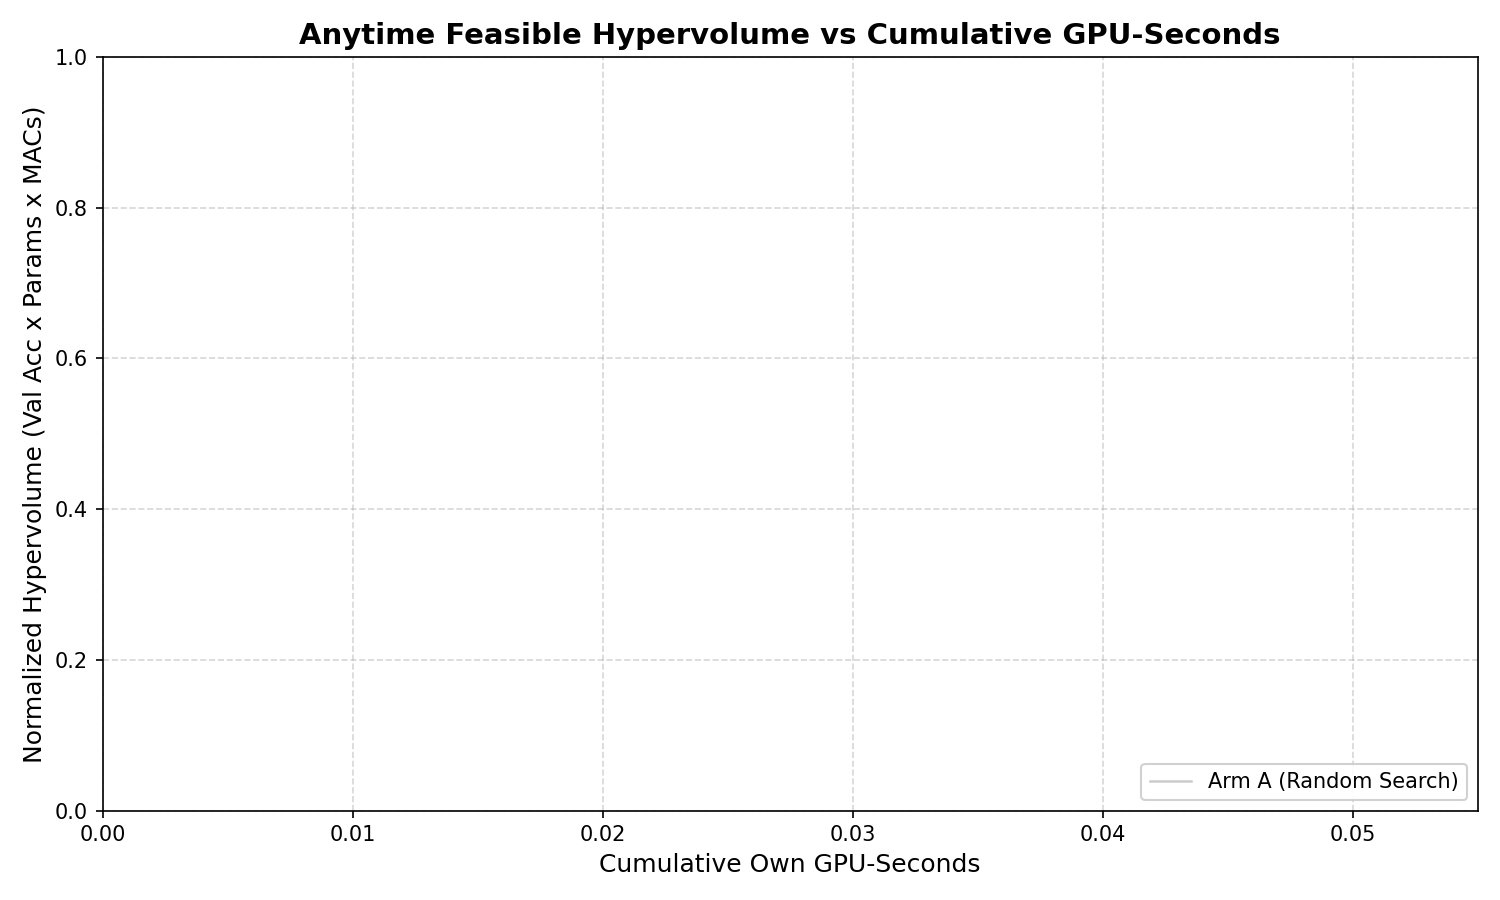
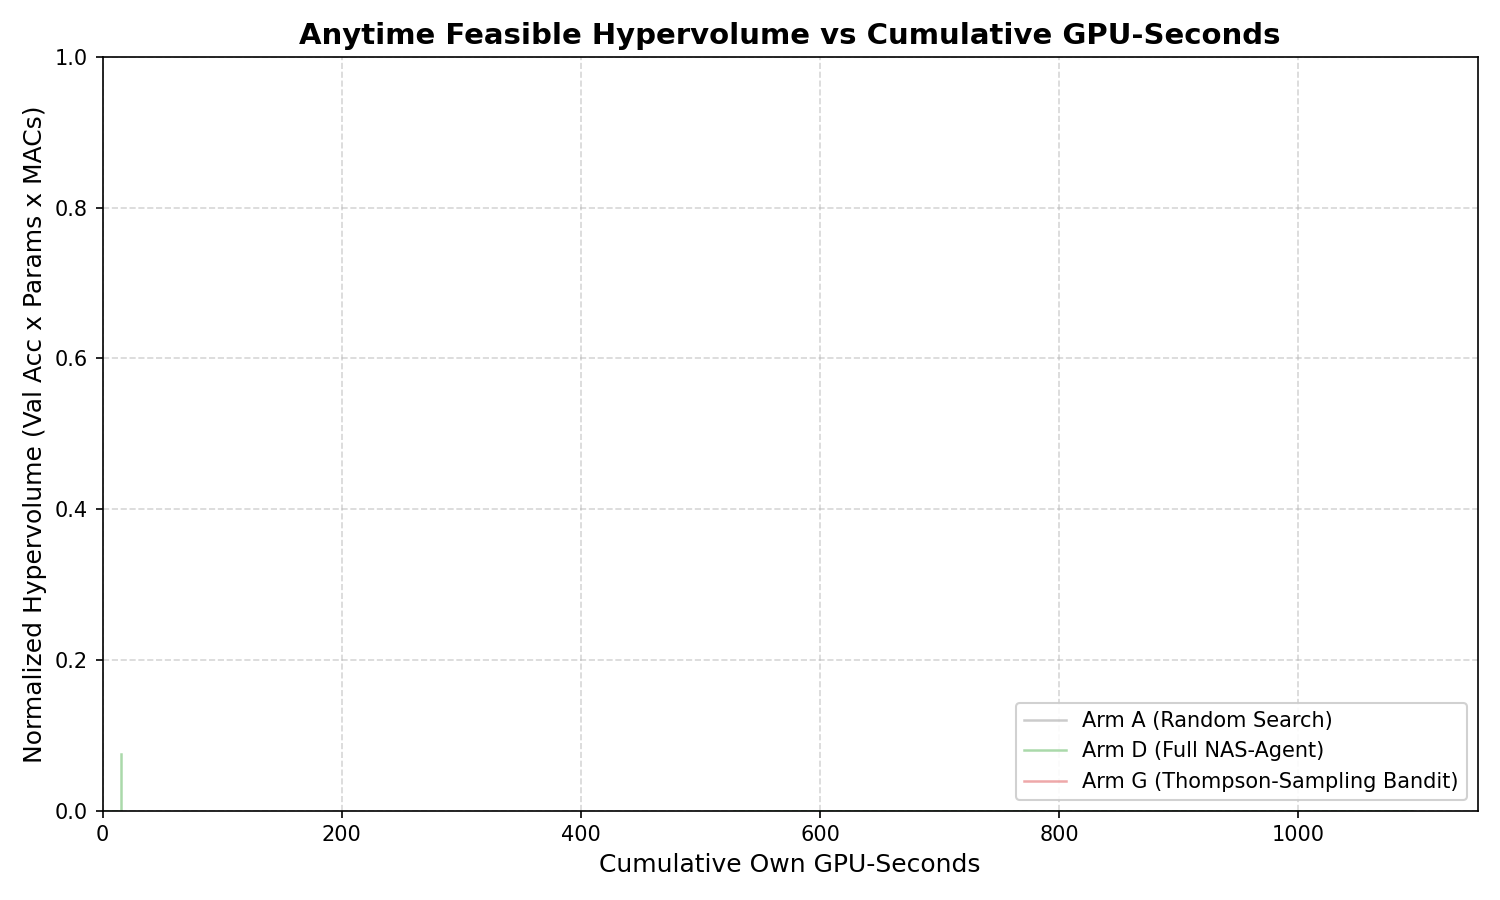
results: add Groq live experiment benchmarks and update runner

diff --git a/src/nas_agent/runner.py b/src/nas_agent/runner.py
@@ -84,7 +84,7 @@ def run_experiment(
     arm_cfg = load_arm_config(arm)
     llm_provider = provider or arm_cfg.get("provider", "mock")
     if llm_provider == "groq":
-        llm_model = model or "llama-3.3-70b-versatile"
+        llm_model = model or "openai/gpt-oss-120b"
     else:
         llm_model = model or arm_cfg.get("model", "google/gemini-2.0-flash-exp:free")
 
@@ -115,7 +115,14 @@ def run_experiment(
 
     executor_extra_args = []
     if mock_data:
-        executor_extra_args.append("--mock-data")
+        executor_extra_args.extend([
+            "--mock-data",
+            "--epochs", "2",
+            "--batch-size", "64",
+            "--subset-size", "256",
+            "--val-size", "128",
+            "--warmup-epochs", "1",
+        ])
 
     executor = LocalExecutor(device=device, default_extra_args=executor_extra_args)
     bandit = ContextualBanditProposer(

diff --git a/experiments/results/summary.md b/experiments/results/summary.md
@@ -3,3 +3,5 @@
 | Arm | Description | HV @ 100% | Best Acc @ 100% | Time to tau (s) | Validity % | Pareto Count | LLM Calls |
 |---|---|---|---|---|---|---|---|
 | **A** | Random Search | 0.0000 | 0.00% | N/A | 0.0% | 0 | 0 |
+| **D** | Full NAS-Agent | 0.0376 | 5.08% | N/A | 16.7% | 0 | 5 |
+| **G** | Contextual Bandit | 0.0000 | 0.00% | N/A | 0.0% | 0 | 0 |
